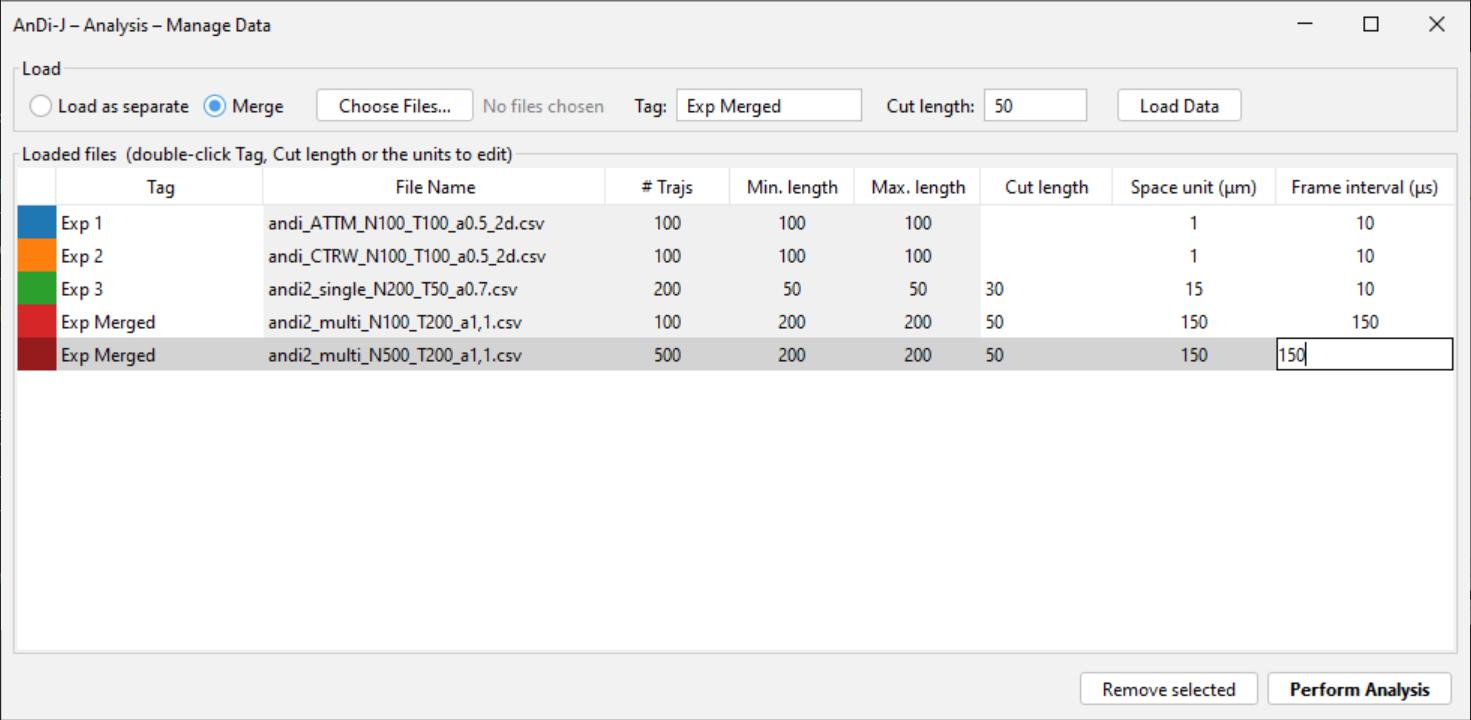
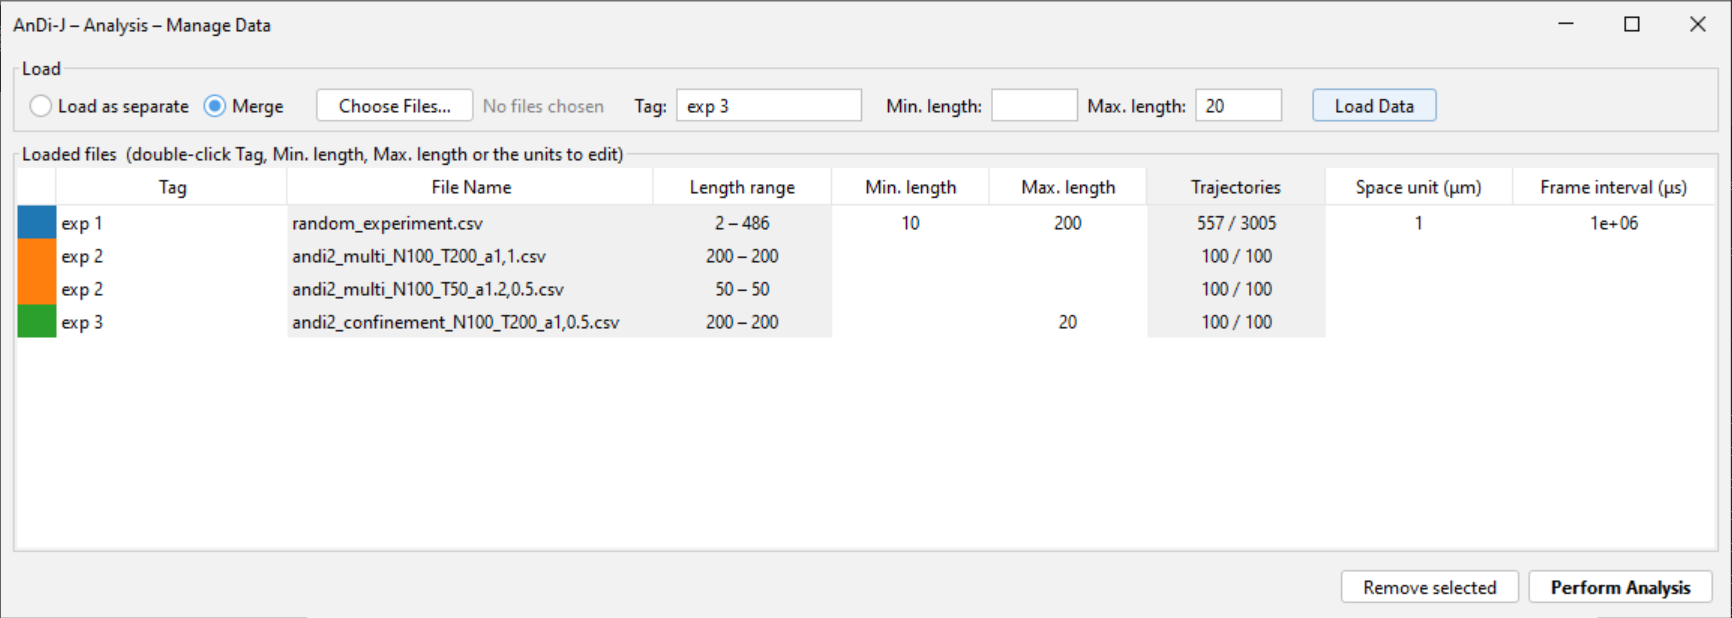
[change: screenshots-0.1.5] AnDi-J: Data Manager, D vs α (Analysis) and D vs α (Segmentation) screenshots of 0.1.5; captions

diff --git a/_pages/plugins/andi-j/trajectory-analysis.md b/_pages/plugins/andi-j/trajectory-analysis.md
@@ -103,7 +103,7 @@ Features:
 *   **Population tagging** — in **Select** mode, *circle* (lasso) a cluster of points (see blue area in the figure below), type a name in **Population tag:** and click **Tag population**. The enclosed trajectories are recoloured to a shade of their parent colour and added as a new dataset to the [Turning Angles](#turning-angles) and [Diffusion Model](#diffusion-model) tabs. A management table below the plot lists each population (tag, source datasets, colour — click the colour to change it). Click **Save…** in the **Save** column to export the population's trajectories as a `csv` in the [input format](/plugins/andi-j/input-data) (`TRACK_ID, POSITION_X, POSITION_Y, POSITION_T, FRAME`), plus an `EXPERIMENT` column naming the experiment each trajectory comes from. The file can be loaded again in the Data Manager, which ignores the extra column; with a calibration, positions are written in μm and `POSITION_T` in seconds, so the file loads back calibrated. `TRACK_ID` keeps the trajectory's id when the population comes from one experiment and is renumbered from 0 when it mixes several, so ids stay unique; commas in experiment names are written as semicolons.
 *   **Plot manipulation** — Log *D* axis toggle, rubber-band **Zoom**, **Pan**, **Reset view**, in both views.
 
-{% include img align="center" name="D vs alpha tab" src="/media/plugins/andi-j/d-vs-alpha-tab.png" caption="**D vs α** scatter with marginal KDEs and a tagged population." %}
+{% include img align="center" name="D vs alpha tab" src="/media/plugins/andi-j/d-vs-alpha-tab.png" caption="**D vs α** in Scatter view, with marginal KDEs and a tagged population (top), and in Density view (bottom)." %}
 
 ## Diffusion Model
 

diff --git a/_pages/plugins/andi-j/input-data.md b/_pages/plugins/andi-j/input-data.md
@@ -61,7 +61,7 @@ An empty cell means unknown; double-click it to fill in or correct the value. Wh
 
 All experiments must be either calibrated or not (separately for space and time), and files merged into one experiment must share their values: otherwise **Perform Analysis** shows a warning and does not run, since values in μm and in pixels, or in seconds and in frames, cannot be compared. α, turning angles, diffusion models and diffusive states do not depend on the units.
 
-{% include img align="center" name="Data Manager" src="/media/plugins/andi-j/data-manager.png" caption="**Data Manager.** Three test experiments loaded as separate ones, then the same three loaded again as a merged experiment with Min. length and Max. length of 10. The latter appears as a single experiment in the analysis." %}
+{% include img align="center" name="Data Manager" src="/media/plugins/andi-j/data-manager.png" caption="**Data Manager.** Four test files loaded into three experiments. exp 1 keeps the trajectories of at least 10 frames and cuts them to 200 (557 of its 3005 trajectories are kept); the two files tagged exp 2 are merged into one experiment; exp 3 cuts its trajectories to 20 frames." %}
 
 ## Selecting the segmentation model
 
